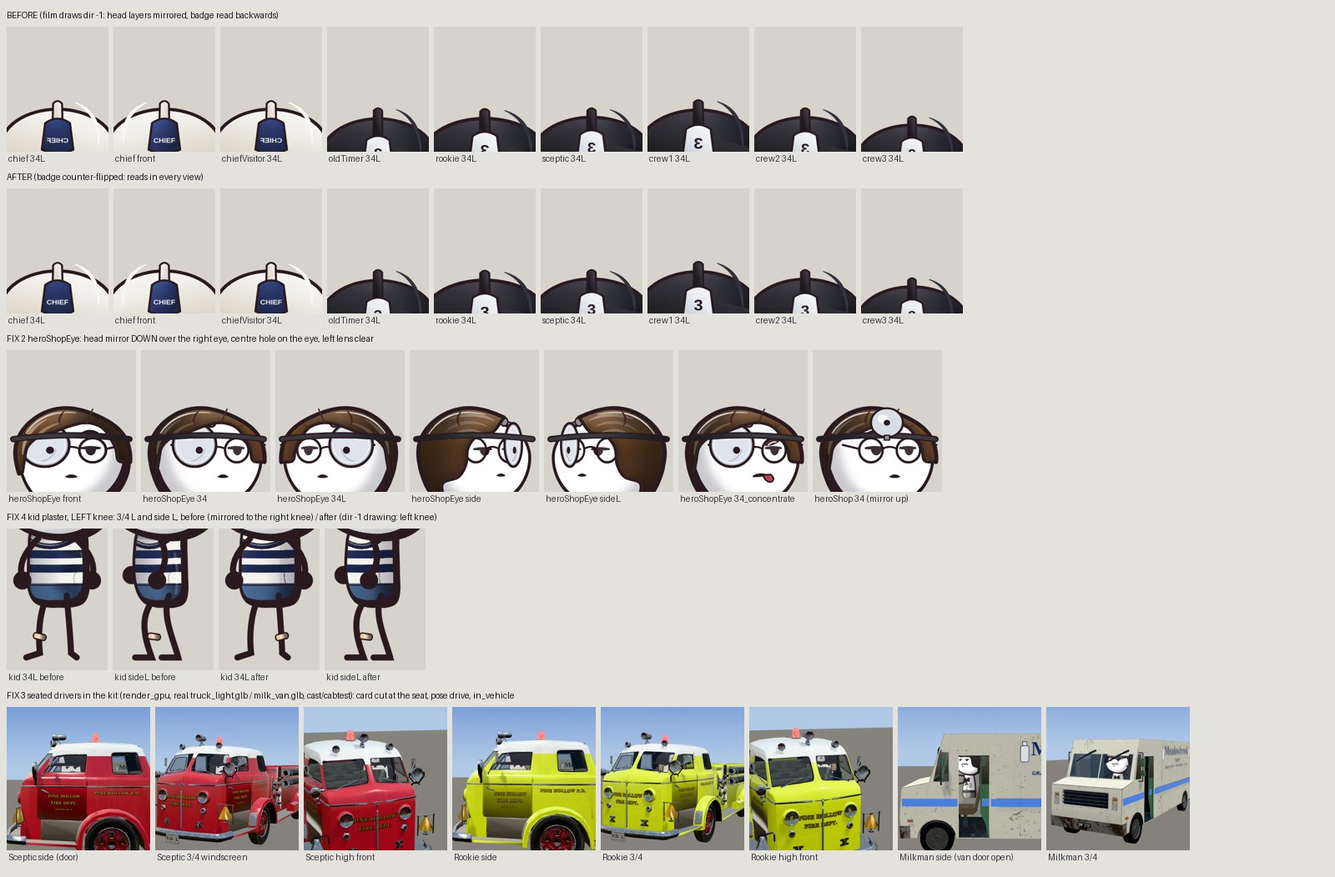
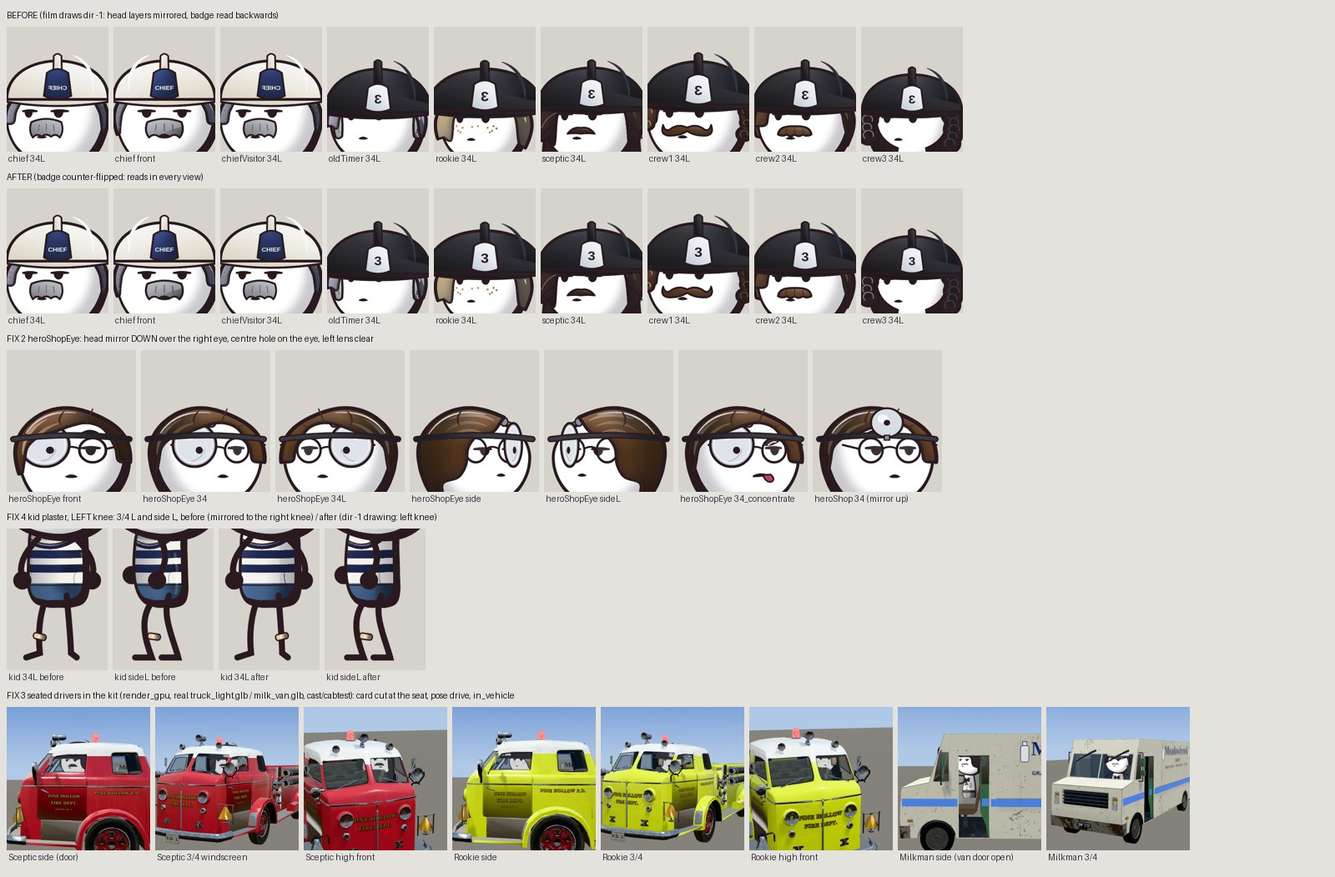
Yellow fire trucks: shared walks and ladder climb (motion gate clean, not yet seen in a picture); S5 climb decision
Claude-Session: https://claude.ai/code/session_01DrjR3Ltb34YxYG9MboPX6s

diff --git a/episodes/yellow-fire-trucks/sets/map.js b/episodes/yellow-fire-trucks/sets/map.js
@@ -7,6 +7,8 @@
 //      "sand": 0..1  or  { "at": 32.3, "dur": 0.6 } } }          the paper round DALLAS turns to sand (S4 -> S5 join)
 // FIX 2: setStation(i | 'CITY', { paint: 'lime' | 'red' | '#hex' | [noseA, noseB], door: 0..1 | [d0, d1] }) overrides that station on every later update;
 //   setStation(i, null) clears it; stations() lists { i, city, pos }. Instance j of a station's trucks = 2 * i + k (k 0 west, 1 east).
+//   field: true | n   FIX 2 the dense pop-up field (out/map_field.json, 260 small stations on land between the cities, with doors and lime trucks, door +
+//     paint wave like the cities): the S4 EXTREME on "cities" then shows dozens of stations (camera B as planned: 26; (3.0,-0.3,4)->(2.85,1.9,.05) lens 24: 35, no table edge)
 //   metals: every metal material without an env map gets a small painted studio sky (brass read black in the kit); places.<name>.env: false = off.
 // Returns { anchors, update, setStation, stations }. Anchors (plan metres, Z up, the kit maps them with ctx.B2T): map_centre, pine_hollow_station, dallas_label, dallas_station, door_row
 // ([x, y, z, city] west -> east), highway_path (Pine Hollow -> Little Rock -> Texarkana -> DALLAS, on the paper), title_block, compass, cities{}.
@@ -51,6 +53,32 @@ export async function build(THREE, scene, film, ctx) {
     list.forEach((it, j) => { M.compose(ctx.B2T(it.p), Q, SC); im.setMatrixAt(j, M); if (paint) im.setColorAt(j, new THREE.Color(LIME)); });
     im.instanceMatrix.needsUpdate = true; scene.add(im); tris += (g.index ? g.index.count : g.attributes.position.count) / 3 * list.length; if (paint) parts.push(im);
   });
+  // FIX 2: the dense pop-up field (instanced copies of st_00's own primitives, its two doors and the tiny trucks)
+  const FD = []; let fdoors = [], ftrucks = [];
+  if (pl.field) {
+    let F = []; try { F = (await (await fetch(DIR + 'map_field.json')).json()).field; } catch (e) { console.warn('PHFD_MAP no map_field.json'); }
+    if (typeof pl.field === 'number') F = F.slice(0, pl.field);
+    const st0 = roots.st_00; root.updateMatrixWorld(true);
+    if (st0 && F.length) {
+      const inv0 = new THREE.Matrix4().makeTranslation(new THREE.Vector3().setFromMatrixPosition(st0.matrixWorld).negate()), T = new THREE.Matrix4(), Sm = new THREE.Matrix4();
+      const base = (p, s) => T.makeTranslation(ctx.B2T([p[0], p[1], p[2]])).multiply(Sm.makeScale(s, s, s)).multiply(inv0);
+      const parts0 = [], doors0 = [];
+      st0.traverse(o => { if (!o.isMesh) return; if (/^door_/.test(o.name) || /^door_/.test(o.parent && o.parent.name || '')) doors0.push(o); else if (!/^sign_/.test(o.name) && !/^sign_/.test(o.parent && o.parent.name || '')) parts0.push(o); });
+      for (const o of parts0) {
+        const im = new THREE.InstancedMesh(o.geometry, o.material, F.length); im.name = 'map_field_' + o.name; im.castShadow = im.receiveShadow = true;
+        F.forEach((p, j) => im.setMatrixAt(j, M.copy(base(p, p[3])).multiply(o.matrixWorld))); im.instanceMatrix.needsUpdate = true; scene.add(im); tris += (o.geometry.index ? o.geometry.index.count : o.geometry.attributes.position.count) / 3 * F.length;
+      }
+      fdoors = doors0.map(o => { const im = new THREE.InstancedMesh(o.geometry, o.material, F.length); im.castShadow = true; scene.add(im); return { im, o }; });
+      F.forEach(p => FD.push({ pos: p, s: p[3], M0: base(p, p[3]).clone() }));
+      TINY.scene.traverse(o => {
+        if (!o.isMesh) return; const g = o.geometry.clone().applyMatrix4(o.matrixWorld), paint = /paint/.test(o.material.name), m = o.material.clone();
+        if (paint) { m.color.set('#ffffff'); m.roughness = .3; m.metalness = 0; }
+        const im = new THREE.InstancedMesh(g, m, F.length * 2); im.castShadow = true;
+        FD.forEach((f, j) => [-.19, .19].forEach((cx, k) => { M.compose(ctx.B2T([f.pos[0] + cx * f.s, f.pos[1] - .02 * f.s, f.pos[2] + .008 * f.s]), Q, new THREE.Vector3(S * f.s, S * f.s, S * f.s)); im.setMatrixAt(2 * j + k, M); if (paint) im.setColorAt(2 * j + k, new THREE.Color(LIME)); }));
+        im.instanceMatrix.needsUpdate = true; scene.add(im); if (paint) ftrucks.push(im);
+      });
+    }
+  }
   const xs = META.stations.map(s => s.pos[0]), x0 = Math.min(...xs), x1 = Math.max(...xs);
   const D = pl.doors || null, wave = D ? (D.wave ?? 2.4) : 0, dur = D ? (D.dur ?? .5) : 1;
   const open = (s, t) => !D ? 1 : Math.max(0, Math.min(1, (t - D.at - wave * (s.pos[0] - x0) / (x1 - x0)) / dur));
@@ -62,6 +90,16 @@ export async function build(THREE, scene, film, ctx) {
     META.stations.forEach((s, i) => { const k = open(s, t); for (const d of [0, 1]) { const o = doors['door_' + String(i).padStart(2, '0') + '_' + d]; if (o) o.scale.y = Math.max(.03, 1 - (s.city === STUCK && d === 1 ? Math.min(k, .5) : k)); } });
     const mode = pl.paint || 'lime';
     if (parts.length && mode !== 'lime') list.forEach((it, j) => { const lime = mode === 'wave' ? open(it.s, t - (pl.lime_delay ?? .3)) >= 1 : false; for (const im of parts) im.setColorAt(j, lime ? cLime : cRed); });
+    if (FD.length) {                            // FIX 2: field doors and paint follow the same wave
+      const Dm = new THREE.Matrix4(), mode = pl.paint || 'lime';
+      FD.forEach((f, j) => {
+        const k = open({ pos: f.pos }, t);
+        for (const { im, o } of fdoors) { Dm.copy(f.M0).multiply(o.matrixWorld).multiply(new THREE.Matrix4().makeScale(1, Math.max(.03, 1 - k), 1)); im.setMatrixAt(j, Dm); }
+        if (mode !== 'lime') { const c = mode === 'wave' && open({ pos: f.pos }, t - (pl.lime_delay ?? .3)) >= 1 ? cLime : cRed; for (const im of ftrucks) { im.setColorAt(2 * j, c); im.setColorAt(2 * j + 1, c); } }
+      });
+      for (const { im } of fdoors) im.instanceMatrix.needsUpdate = true;
+      for (const im of ftrucks) if (im.instanceColor) im.instanceColor.needsUpdate = true;
+    }
     for (const [i, o] of OV) {                 // FIX 2: per-station overrides (setStation)
       if (o.door !== undefined) for (const d of [0, 1]) { const dd = doors['door_' + String(i).padStart(2, '0') + '_' + d], v = Array.isArray(o.door) ? o.door[d] : o.door; if (dd) dd.scale.y = Math.max(.03, 1 - v); }
       if (o.paint !== undefined) for (const k of [0, 1]) { const v = Array.isArray(o.paint) ? o.paint[k] : o.paint, c = v === 'lime' ? cLime : v === 'red' ? cRed : new THREE.Color(v); for (const im of parts) im.setColorAt(2 * i + k, c); }
@@ -70,6 +108,6 @@ export async function build(THREE, scene, film, ctx) {
     if (sand) { const v = typeof pl.sand === 'object' && pl.sand ? Math.max(0, Math.min(1, (t - pl.sand.at) / (pl.sand.dur || .6))) : (pl.sand || 0); sand.visible = v > 0; sand.material.opacity = v; }
   }
   update(0, 0);
-  console.warn('PHFD_MAP ' + JSON.stringify({ meshes, stations: META.stations.length, trucks: list.length, tris: Math.round(tris), load_ms: Math.round(performance.now() - t0) }));
+  console.warn('PHFD_MAP ' + JSON.stringify({ meshes, stations: META.stations.length, trucks: list.length, field: FD.length, tris: Math.round(tris), load_ms: Math.round(performance.now() - t0) }));
   return { anchors: ANCHORS, update, setStation, stations };
 }

diff --git a/episodes/yellow-fire-trucks/sets/map/scripts/map_api.py b/episodes/yellow-fire-trucks/sets/map/scripts/map_api.py
@@ -2,6 +2,8 @@
 #   MA.set_doors(scene, t, wave=2.4, dur=.5)   door wave west -> east: station i opens over [t0_i, t0_i + dur], t0_i = wave * (x_i - xmin) / (xmax - xmin); t<0 shut, big t open
 #   MA.set_paint(scene, t=None, lime=True)      truck noses: all lime/red, or per station by the same wave timing (lime once its door has opened)
 #   MA.set_sand(scene, v)                      0..1 the paper around DALLAS turns to sand (S4 -> S5 join)
+#   MA.add_field(scene, path=None, n=None)      FIX 2: the dense pop-up field (out/map_field.json, make_field.py): small stations with doors and lime trucks;
+#                                              they carry map_station = 'FIELD', so set_doors / set_paint drive them with the same wave. Returns the count.
 #   MA.LIGHT / MA.KIT_LIGHT                     bleached map day (Blender sun/sky) and the same for the kit (places.<name>.light_over)
 import bpy, math
 STUCK = 'DENVER'          # PROPS.md: "one door stuck half up"
@@ -20,6 +22,23 @@ def set_paint(sc, t=None, lime=True, wave=2.4, dur=.5):
         on = lime if t is None else (_wave(o, t, wave, dur, xs) >= 1)
         for c in o.children:
             if c.get('map_truck') is not None: c.instance_collection = L if on else R
+def add_field(sc, path=None, n=None):
+    """FIX 2: linked copies of st_00 (no sign) at the field points; idempotent (a second call returns the existing count)."""
+    import json, os
+    old = bpy.data.collections.get('FIELD')
+    if old: return len([o for o in old.objects if o.get('map_station') == 'FIELD'])
+    path = path or os.path.join(os.path.dirname(bpy.data.filepath), 'map_field.json'); F = json.load(open(path))['field'][:n]
+    st0 = bpy.data.objects['st_00']; col = bpy.data.collections.new('FIELD'); sc.collection.children.link(col)
+    doors0 = [c for c in st0.children if c.get('map_door') is not None]; trucks0 = [c for c in st0.children if c.get('map_truck') is not None]
+    for i, (x, y, z, s) in enumerate(F):
+        r = bpy.data.objects.new('fs_%03d' % i, st0.data); col.objects.link(r); r.location = (x, y, z); r.scale = (s, s, s); r['map_station'] = 'FIELD'
+        for d0 in doors0:
+            d = bpy.data.objects.new('%s_door%d' % (r.name, d0['map_door']), d0.data); col.objects.link(d); d.parent = r
+            d.location = d0.location; d.scale = d0.scale; d['map_door'] = d0['map_door']
+        for t0 in trucks0:
+            e = bpy.data.objects.new('%s_truck%d' % (r.name, t0['map_truck']), None); col.objects.link(e); e.instance_type = 'COLLECTION'
+            e.instance_collection = t0.instance_collection; e.parent = r; e.location = t0.location; e.rotation_euler = t0.rotation_euler; e.scale = t0.scale; e['map_truck'] = t0['map_truck']
+    return len(F)
 def set_sand(sc, v):
     o = bpy.data.objects.get('sand_blend'); m = bpy.data.materials['sand_blend']; m.node_tree.nodes['SAND'].outputs[0].default_value = v
     if o: o.hide_render = v <= 0

diff --git a/episodes/yellow-fire-trucks/sets/map/scripts/make_field.py b/episodes/yellow-fire-trucks/sets/map/scripts/make_field.py
@@ -1,0 +1,35 @@
+# make_field.py (FIX 2, set-builder 2026-11-21): the DENSE POP-UP FIELD of small stations for the S4 EXTREME on "cities" ("hundreds of doors"): the 47 city stations
+# are 1.05 m apart, so no portrait camera over the paper shows more than about 14 of them. This adds smaller stations (scale .5-.68) on land between them,
+# at least .62 m from each other and .8 m from a city station, in the lower 48 only, deterministic (seed). No rebuild needed: the kit (map.js places.<name>.field)
+# and Blender (map_api.add_field) both read out/map_field.json.   python3 make_field.py <assets/map> <out dir> [n_max 260] [seed 7]
+import sys, os, json, random, math
+import numpy as np
+from PIL import Image, ImageDraw
+sys.path.insert(0, os.path.dirname(os.path.abspath(__file__))); import map_geo as G
+A, OUT = sys.argv[1], sys.argv[2]; NMAX = int(sys.argv[3]) if len(sys.argv) > 3 else 260; SEED = int(sys.argv[4]) if len(sys.argv) > 4 else 7
+ST = G.load_states(os.path.join(A, 'us-atlas', 'states-10m.json'))
+PX = 20.; X0, Y0 = -G.MAP_W / 2, -G.MAP_H / 2; W, H = int(G.MAP_W * PX), int(G.MAP_H * PX)
+im = Image.new('L', (W, H), 0); d = ImageDraw.Draw(im)
+for _, (nm, rings) in ST.items():
+    for r in rings:
+        pts = [G.ll(lo, la) for lo, la in r]; d.polygon([((x - X0) * PX, (H - (y - Y0) * PX)) for x, y in pts], fill=255)
+land = np.asarray(im) > 0
+def on_land(x, y, m=.5):
+    for u, v in ((0, 0), (-m, 0), (m, 0), (0, -m), (0, m)):
+        i, j = int(H - (y + v - Y0) * PX), int((x + u - X0) * PX)
+        if not (0 <= i < H and 0 <= j < W) or not land[i, j]: return False
+    return True
+city = [(s[1], s[2] + G.STATION_OFF) for s in G.stations()]
+rnd = random.Random(SEED); pts = []
+for _ in range(40000):
+    if len(pts) >= NMAX: break
+    x, y = rnd.uniform(X0 + 1, -X0 - 1), rnd.uniform(Y0 + 1, -Y0 - 1)
+    if not on_land(x, y): continue
+    if any(math.hypot(x - a, y - b) < .8 for a, b in city): continue
+    if any(math.hypot(x - a, y - b) < .62 for a, b, _, _ in pts): continue
+    s = round(rnd.uniform(.5, .68), 3); z = max(G.fold_z(x + u * s, y + v * s) for u in (-.45, 0, .45) for v in (-.55, 0, .45)) - .004
+    pts.append((round(x, 3), round(y, 3), round(z, 4), s))
+pts.sort(key=lambda p: p[0])
+json.dump(dict(note='FIX 2 dense pop-up field: [x, y, z, scale] plan metres, sorted west -> east; station model = st_00 without its sign',
+               count=len(pts), seed=SEED, field=[list(p) for p in pts]), open(os.path.join(OUT, 'map_field.json'), 'w'))
+print('FIELD', len(pts))

diff --git a/episodes/yellow-fire-trucks/cast/tools/cast_fix_sheet.py b/episodes/yellow-fire-trucks/cast/tools/cast_fix_sheet.py
@@ -15,7 +15,7 @@ for tag, d in [('BEFORE (film draws dir -1: head layers mirrored, badge read bac
     for w in who:
         for v in (['34L'] if w not in ('chief',) else ['34L', 'front']):
             p = os.path.join(C, d, f'{w}_{v}.png')
-            if os.path.exists(p): tiles.append((f'{w} {v}', head(p, (170, 80, 430, 400), 150)))
+            if os.path.exists(p): tiles.append((f'{w} {v}', head(p, (150, 190, 450, 560), 150)))
     rows.append((tag, tiles))
 # row 3: mirror down
 tiles = [(f'heroShopEye {v}', head(os.path.join(C, 'views', f'heroShopEye_{v}.png'), (150, 230, 450, 560), 170)) for v in ['front', '34', '34L', 'side', 'sideL', '34_concentrate']]

diff --git a/episodes/yellow-fire-trucks/moves/SHARED_WALKS.md b/episodes/yellow-fire-trucks/moves/SHARED_WALKS.md
@@ -1,0 +1,66 @@
+# SHARED_WALKS: locked-feet place changes for every stretch (animator, 2026-11-21)
+
+Files: `moves/shared_walks.mjs` (the moves + the USES table), `moves/tools/make_acts.mjs` (writes `moves/shared_walks_acts.json`),
+`moves/tools/check_motion_ep.mjs` (gate copy), `moves/tools/probe_px.mjs` (card px per metre of each cast member), gate output `moves/out/motion_gate*.txt`.
+
+## NOT done
+- Picture proof: no 4-fps strip was rendered with the real puppet (time box over). Gate numbers only. `_test/` is empty.
+- frame_checks slide row not measured in a render (the method makes it 0 for the across part by construction; it must be proven).
+- S5 climb: the voice gives 1147-1177 for the climb; at one tread per step the Clerk reaches +1.5 m (tread z 2.22), NOT the 3x at z 5.52.
+  The lead must choose: start the climb before "hit", put the chalk 3x lower, or cut away (camera) for the middle of the climb.
+
+## How it works (read before pasting)
+- The card is NOT moved by a film_plan tween. One act per frame puts the card where the body is (pos, move_s 0.0334, linear). An act at `at`
+  lands the card at `at + 2`. The move draws the feet at (foot world - body) in card px, so a planted foot keeps its spot across the picture.
+- Depth (toward / away from the lens) cannot be undone on one card. Runs and the burst put 65 % of it on flight frames (both feet up) and
+  35 % on planted frames; walks carry it with the body. That depth part is NOT checked by frame_checks. It is listed below per use.
+- Do NOT put a `face` key in the act that sets the pose (film_plan would start the body one frame late, and the card would be one frame ahead of it).
+  Put the face in its own act on the same frame or later.
+- Each stretch must link the file: `ln -s ../../moves/shared_walks.mjs <stretch>/moves/shared_walks.mjs` (puppet_pkg 'moves' copies it into the cache).
+- Paste in make_film.py (after `acts = [...]`):
+  `acts += json.load(open(os.path.join(EP, 'moves', 'shared_walks_acts.json')))['<use>']`, and remove the old glide act named below.
+- After editing USES: `node moves/tools/make_acts.mjs`, then the gate (both exports), from `episodes/yellow-fire-trucks`:
+  `GATE_SHEET=firetrucks.mjs GATE_MOVES=shared_walks.mjs node moves/tools/check_motion_ep.mjs`.
+
+## Uses (frames from voice/words.json; numbers printed by make_acts.mjs)
+| use | stretch | who | frames | path | across / depth | max card step across / depth | remove |
+|---|---|---|---|---|---|---|---|
+| s1_ch_burst | S1 | chief | 157-171, hands back to `m:../../ep_s1/ch_burst@5.7` at 171 | [3.0, 20.15] -> CHIEF [2.45, 19.1] | 0.10 / 1.18 m | 1.4 / 29.1 cm/f | nothing (the chief act at 157 stays: visible true) |
+| s2_he_walk | S2 | hero | 289-333 (still hidden at 322 as now) | [2.95, -2.15] -> [2.6, -3.2] | 0.31 / 1.06 m | 1.3 / 4.5 cm/f | act at 289 (pos, move_s 1.0); the hero's first act must have pos [2.9576, -2.1552, 0.02], dir 1, view side |
+| s6_kid_run | S6 | kid | 1408-1438 | [36.9, -12.8] -> [36.35, -10.35] | 1.06 / 2.28 m | 6.7 / 22.5 cm/f | act at 1418 (pos, move_s .4); the 1445 step-over is NOT built yet |
+| s7_cv_march | S7 | chiefVisitor | 1647-1690, hands back to `m:../../ep_s7/cv_s7@3.8` at 1690 | CH0 NEW [6.82, 9.89] -> CH1 [5.75, 9.35] | 1.17 / 0.28 m | 4.9 / 1.2 cm/f | act at 1672 (pos CH1, move_s .25); CH0 in make_film.py -> [6.8127, 9.8883, 0.12] |
+| s5_cl_climb | S5 | clerk | 1147-1211 (top 1177, hat tip 1183-1203) | from tread z 0.72 up 5 treads to z 2.22 | vertical | 5 card jumps of one tread | acts 1150-1162 (rung glides) |
+
+Acting in each move (STUDIO MOTION, all on ones, snap curves, dead still at the end):
+- S1 burst: anticipation crouch 8 px, three planted foot moves at 3 f (half stride, full stride, closing), lean 10, fists pumping, flight hop 12 px;
+  lands in ch_burst's own f171 crouch (y 14, rot .4, head -6, fists at the hips) so the hand-back has no pop. Burst ON "chief" (163).
+- S2 walk: the hero's long calm stride, 12 f per step (STUDIO_MOTION normal), upright (lean 2), arms long and loose, no bob beyond the leg geometry.
+- S6 run: 2 f crouch, 5 steps of 4 f, lean 14, fists pumping, flight hop 8 px, skid back -5 deg ring at the stop, head tilts 8 (her "stop with the head tilted").
+- S7 march: the Chief's proud stomp, high knees (lift 40 px), thumbs in the belt (cv_s7's own hands), chest out (lean -4), a 6 px stomp dip on every plant;
+  the last plant lands ON "firetruck" (f1678 = g 31); settles to rot -4 / head -3 = cv_s7 at 1690.
+- S5 climb: three stages of two steps (4 f each), a 4 f pause between stages, the opposite hand reaches two rungs as each foot steps,
+  hips never above the reach of the lower planted foot, the hat tip at the top (knuckle to the brim, 6 f after the last step), the look up.
+
+## Gate numbers (moves/out/motion_gate.txt side, motion_gate_front.txt front / 3/4)
+All five uses, both exports: twos 0, linear 0, no_settle 0, creep 0, planted foot slide 0 px, arm over-reach 0 px, leg stretch 0 px.
+
+## Weak points (my own list)
+- Not seen in a picture yet. The 3/4 and front exports are the side math with the view changed (feet ft.x the same).
+- Depth part per frame: burst 29 cm/f and Kid 22.5 cm/f on flight frames (the card jumps toward the lens while both feet are up): may read as a pop.
+- S2: the walk is 1.1 m, not the whole Main St crossing (4.6 m in 33 f would be a 4.2 m/s jog, against his "never hurried" rhythm).
+- S7 needs CH0 moved 0.97 m (it sat 0.8 m off the camera's across axis).
+- Ladder: the card depth changes 5.6 cm per tread (the ladder lean) on the jump frames; the climb is fast (4 f a step) and short (see NOT done).
+
+## LECONS (LECONS_TECHNIQUES.md format; the lead copies)
+## 2026-11-21 — A card tween cannot carry a walk: the feet glide (yellow-fire-trucks, shared walks) — OUVERT
+- Problème : four place changes glided (S1 33 cm/f, S2 15 cm/f, S7 1.9 m in 8 f, S6 run) and the S5 climb rose on 3-frame glides.
+- Cause réelle : the card travels by film_plan's pos tween, while the move draws its feet in card px; nothing ties a planted foot to the world.
+- Correction : moves/shared_walks.mjs draws feet at (foot world - body) and make_acts.mjs writes one card-position act per frame (at -> lands at+2).
+- Garde-fou : the motion gate with `_walk.travel` (planted foot slide in world px) on both exports; frame_checks slide row after the render.
+- Preuve : gate 0/0/0/0, slide 0 px on 5 uses (moves/out/motion_gate*.txt). Picture proof NOT done: OUVERT.
+## 2026-11-21 — A `//` comment inserted mid-line ate the rest of the statement (shared_walks.mjs) — FERMÉ
+- Problème : "Unexpected token export" after a patch. Cause : the comment was placed before `inc[g] = d; ...` on the same line.
+- Correction : the comment on its own line. Garde-fou : tools/check_midline_comments.py (0 suspect lines). Preuve : gate runs.
+## 2026-11-21 — Rig arm length differs between the kit and the gate (shared walks) — FERMÉ
+- Problème : 9-21 px arm over-reach in the gate on the pumping fists. Cause : the gate's ch.armL is x1.06, the kit's x1.24, and the shoulder turns with the lean.
+- Correction : reach() pulls each fist to 96 % of ch.armL from the leaned shoulder of the drawn view. Garde-fou : gate contact row. Preuve : over-reach 0 px.

diff --git a/episodes/yellow-fire-trucks/cast/STATE.md b/episodes/yellow-fire-trucks/cast/STATE.md
@@ -26,3 +26,32 @@
 - Hero glasses are the kit roundGlasses (r 25): pupils clear in front, 3/4, aim, glanceCam; at phone size they read only in close shots.
 - Chief "gold shield / pins / brass buckle" from the hints made SILVER (no yellow on a person): lead to confirm.
 - Sleeves pushed up (Sceptic), short sleeves (Chief), sneakers/socks (Kid), pink cheeks (Chief) not drawable on the locked template.
+
+## FIX 1 (2026-11-21, cast fix round: badge, mirror down, seated drivers, kid plaster)
+- Badge: sheets/firetrucks.mjs fireHelmet counter-flips the front text when PP.dir < 0 (hair_lib mirrors head layers for left views). Every helmeted
+  puppet (chief, chiefVisitor, chiefDown, oldTimer, rookie, rookieDown, sceptic, crew1-3) reads "3" / "CHIEF" in front, 3/4 R, 3/4 L (side views have no text).
+- render_cast.mjs now draws LEFT views with svgFor dir -1 (film.js's way) instead of a canvas mirror; CAST_BEFORE=<old sheet> writes out/before/*.png.
+- heroShopEye (new puppet): band in the hair layer + knuckle, stalk and ~9 cm disc in faceTop over the RIGHT eye, centre hole on the eye; left lens clear.
+- Kid plaster: with the dir -1 drawing it lands on the LEFT knee in 3/4 L and side L (no code change); side R keeps it on the near leg (left knee is hidden).
+- Seated drivers scepticDriver / rookieDriver / milkmanDriver: same spec + kit customCard (spec.card) = kit svgFor of the base puppet, clipped 14 px under
+  the hip line; pose 'drive' (side = push, else grip_box fists with the box at scale .001). CAST_KEYS: in_vehicle true, hip_up_m, seated_head_m, cut_px.
+  The sheet imports the live kit module (../../kit/puppets.mjs in the film, ../puppets.mjs in render_cast); if neither loads, the driver is the plain puppet.
+- DRIVER_NOTE.md = placement for the stretch builders (keys, pos z = seat_z - hip_up_m, truck/van seat anchors, views).
+- Proof: sheets/CAST_FIX.jpg (tools/cast_fix_sheet.py) + cast/cabtest/ (film.json, sets/cabtest.js, real truck_light.glb + milk_van.glb, 9 stills, 2 min).
+## Numbers (FIX 1)
+- render_cast: 142 tiles; flags 9 = the known kit tongue/mouth reds on k: faces (aim, glanceCam, concentrate, sleepy) + hero aim grey .127 + chiefShout grey .158.
+- Driver tiles: costume red 0 / yellow 0; cut at card y 1107 (sceptic) / 1072 (rookie, milkman). hip_up_m .683 / .670 / .662; seated head 1.197 / .970 / .958 m.
+- check_views: FAIL as shipped only (24 "no approved picture" stationmaster/inspector/lady/dad + 7 SKIP of absent films); nothing new.
+## Weak / open (FIX 1)
+- Truck cab too small for the locked heads: face in the window puts the helmet comb at the roof (tip may show); set-builder 1.15x cab or bareheaded drivers.
+- Through the truck windscreen the glass darkens the face (set glass material); the A-pillar mirror can cover the face from a front 3/4 lens (camera choice).
+- frame_checks: in_vehicle exempts body_in_mesh, but body_check FAILs "in_vehicle without a body rig" and scale_check needs vehicles.js driverSeat (kit owner).
+- Mirror-down disc reads as a big lens at phone size in wide shots; it reads in M/C shots. No CB look yet. No Rick refs in the repo (no side-by-side).
+## Lessons (LECONS format)
+- 2026-11-21 Helmet number read backwards in left views. Cause: hair_lib wraps the head layers (hat included) in scale(-1,1) for dir < 0, and the sheet
+  renderer mirrored the right card, so neither showed the film's real drawing. Fix: counter-flip the <text> about x 0 when PP.dir < 0; render left views
+  with svgFor dir -1. Guard: CAST_FIX.jpg badge row. Proof: chief 34L "ƎIHC" -> "CHIEF". FERMÉ
+- 2026-11-21 Pieces drawn over the eye vanish. Cause: hair_lib pieces live in the hair layer, which the rig draws UNDER the face. Fix: anything on the face
+  goes in spec.faceTop (face layer coords, slid by the rig in 3/4 / side: eye x -40 front, 51 side). Proof: heroShopEye tiles. FERMÉ
+- 2026-11-21 Drivers stood through cab bodies. Cause: no seated driver card in the kit (body_rig not wired). Fix: kit customCard hook wrapping the kit's own
+  svgFor + a clip under the hips; same puppet, same moves. Guard: cabtest stills. Proof: CAST_FIX.jpg row FIX 3. OUVERT (cab scale, frame_checks rig rows)

diff --git a/episodes/yellow-fire-trucks/cast/CASTING.md b/episodes/yellow-fire-trucks/cast/CASTING.md
@@ -7,6 +7,8 @@ Package untouched: bodies (three sizes + kid form), outfit_lib parts, hair_lib, 
 |---|---|---|---|---|---|---|
 | hero | Fireman-Eye-Doctor, yard | thin, 1.88 | ytHeroYard: turtleneck TEAL #12A5A0 (hero signature), braces + bunker trousers black #2e2d34 (turnout black), reflective band #e6e9ee (silver-white) | sidePart #6b4423; black helmet, plain black front, pushed back (hatDrop -14) | big round wire glasses (kit roundGlasses) | calm expert; teal pops against red and lemon |
 | heroShop | same man, eye shop (lines 3-4) | thin, 1.88 | ytHeroShop: short white coat #f4f2ec open over the TEAL roll-neck, 3 pockets | head mirror on a black band (sheet piece) | glasses + teal | doctor at a glance |
+| heroShopEye | same man, eye shop, S2 row 11 "eye" (FIX 1) | thin, 1.88 | ytHeroShop | head mirror swung DOWN over the right eye (band + faceTop disc, centre hole on the eye) | glasses (left lens clear) + teal | the doctor looking through his mirror |
+| scepticDriver / rookieDriver / milkmanDriver | the drivers at the wheel, S3 / S6 (FIX 1) | as the base puppet | as the base puppet | same; card cut under the hips, pose 'drive', in_vehicle (DRIVER_NOTE.md) | as the base | no body through the cab |
 | heroBare | same man, no helmet (last picture option) | thin | ytHeroYard | sidePart | glasses | for the mug shot if the lead wants the face clear |
 | chief | the mocker, speaks line 2 | fat, 1.62 | ytChief: navy #1f2a54 shirt and trousers (turnout navy), black tie, silver badge, collar pins and big buckle (silver, not gold) | buzz grey #a6a6ae; WHITE helmet #f1efe9, navy front lettered CHIEF | grey walrus moustache (kit walrus lifted 10 px, 92 %, so the mouth shows under it) | round loud boss; only white helmet, only fat body in the yard |
 | chiefVisitor | Chief in Dallas (line 13) | fat | ytChiefVisitor: + white VISITOR tag, badge moved right | same | same | open question 1 |

diff --git a/episodes/yellow-fire-trucks/cast/DRIVER_NOTE.md b/episodes/yellow-fire-trucks/cast/DRIVER_NOTE.md
@@ -18,10 +18,13 @@ Known: body_check FAILs "in_vehicle without a body rig" (templates/body_rig is n
 ## Position: card pos z = seat_z - hip_up_m (CAST_KEYS.json: hip_up_m, seated_head_m)
 | driver | hip_up_m | head top above the seat | proof pos z |
 |---|---|---|---|
-| scepticDriver | 0.683 | 1.197 m | 0.27 in the truck (bare head top 2.15 m) |
-| rookieDriver | 0.670 | 0.970 m | 0.45 in the truck (bare head top 2.09 m) |
+| scepticDriver | 0.683 | 1.197 m | 0.42 in the truck (bare head top 2.30 m: face in the side window, mouth at the sill) |
+| rookieDriver | 0.670 | 0.970 m | 0.58 in the truck (bare head top 2.22 m) |
 | milkmanDriver | 0.662 | 0.958 m | 0.29 in the van (seat 0.95, head top 1.91 m) |
-Rule: set z so that the BARE head top sits about 0.1 m under the cab roof line. The face then fills the side window / windscreen, as in Rick's cab shots.
+Rule: eyes and mouth inside the window opening (truck side window about 1.80-2.20 m, windscreen 1.76-2.21 m; van window 1.30-1.88 m).
+CONFLICT (truck): the locked cartoon head (~0.6 m) is taller than the cab window (~0.4 m); with the face in the window the helmet comb reaches the cab roof
+(~2.35 m) and its tip can show above it (proof z 0.42); at z 0.27 the helmet clears but only the eyes show. Fix belongs to the set-builder or lead:
+build the truck about 1.15x around the riders (templates/body_rig finding: never shrink the rider), or drivers without helmets in the cab.
 
 ## Anchors (truck local: front -X, driver side +Z, Y up; GLB windscreen_driver x -3.25..-2.78, y 1.76..2.21, z 0.06..0.75)
 - Truck driver seat (plan, yaw 0): truck origin + (x -2.30, driver side 0.42 m), i.e. with yaw 0 plan [X0 - 2.30, Y0 - 0.42, z]. With another yaw, rotate (-2.30, +0.42 local Z) by the truck yaw (local +Z = plan -Y at yaw 0).

diff --git a/episodes/yellow-fire-trucks/STATE.md b/episodes/yellow-fire-trucks/STATE.md
@@ -41,3 +41,4 @@
 - 2026-11-21 lead, cast fault seen on the S4 board: the firemen helmet front "3" reads mirrored ("ε") in mirrored views (left views draw the right card mirrored): the badge must be drawn unmirrored. For the character-artist in the fix round.
 - 2026-11-21 lead, S7/S8 join (replaces the earlier S8 note): the S7 STILLNESS stays whole (1730-1754). S8 OPENS on the push into the home pumper's wet red door (blend on motion from the stillness), the drain to grey on "evening" happens during that push, and the pull back from the door IS the move into the wide; then the push into the Chief's eyes for the POV and a capped whip out to the last frame (rest >= 0.7 s). The camera-director/S8 builder solves the frame budget in the S8 fix round.
 - 2026-11-21 lead: the planned whip at the end of S5 into the red headlamp (place change into S6) is accepted.
+- 2026-11-21 lead, S5 climb: the Clerk starts climbing right after "crash" (end of line 8), so he reaches the "UP TO 3x" at the top of board 3 on "three" (no lower 3x, no cut away). S7: Chief start spot moves to [6.8127, 9.8883, 0.12] as the animator asks.

diff --git a/episodes/yellow-fire-trucks/moves/STATE.md b/episodes/yellow-fire-trucks/moves/STATE.md
@@ -1,0 +1,12 @@
+# moves/ STATE (animator, 2026-11-21, shared locked-feet moves round)
+## Built
+- shared_walks.mjs: gait engine (walk / march / run / burst) + ladder climb, side (default) and front exports, USES for S1, S2, S5, S6, S7, PLAN, PXM.
+- tools/make_acts.mjs -> shared_walks_acts.json (the act lines per use); tools/probe_px.mjs (card px per metre per cast); tools/check_motion_ep.mjs (gate copy).
+- SHARED_WALKS.md: method, paste lines, table per use, lessons.
+## Numbers
+- Gate, both exports, 5 uses: twos 0, linear 0, no_settle 0, creep 0, foot slide 0, over-reach 0 (out/motion_gate.txt, out/motion_gate_front.txt).
+- px per metre: hero 494.5, chief 598.8, kid 519.2, clerk 533.6.
+## Open
+- No render proof (strip) yet; frame_checks slide not measured. _test/ empty.
+- S5 climb reaches +1.5 m only in the voice window (needs a lead decision). S6 step-over the ball (1445) not built.
+- Depth pops on flight frames (burst 29 cm/f, kid 22.5 cm/f) to be looked at in a picture.
